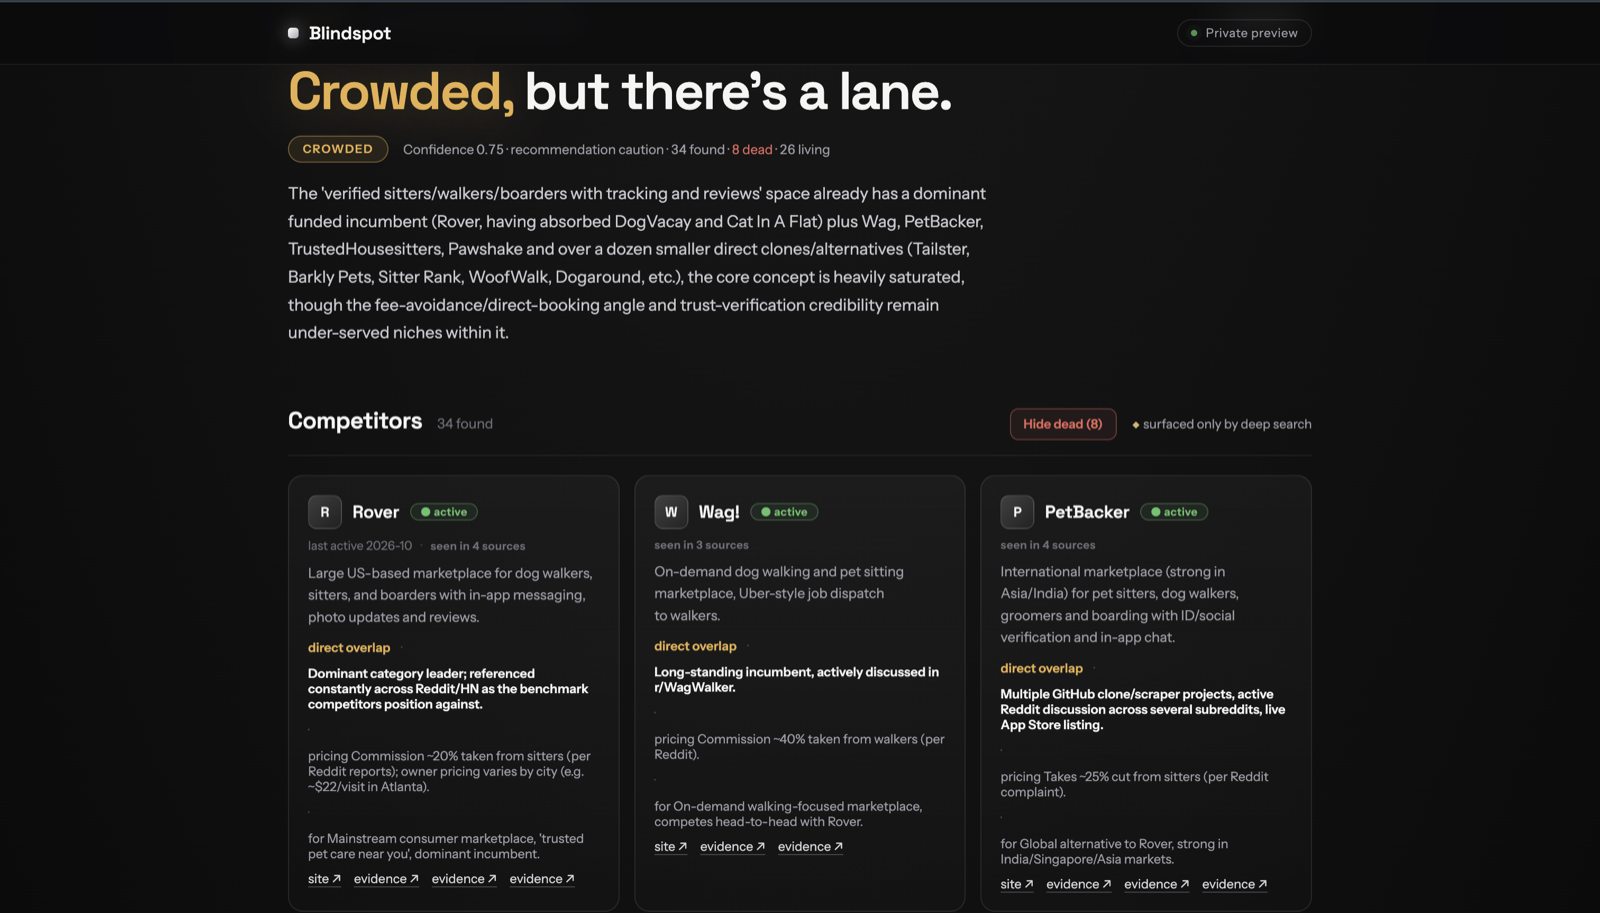
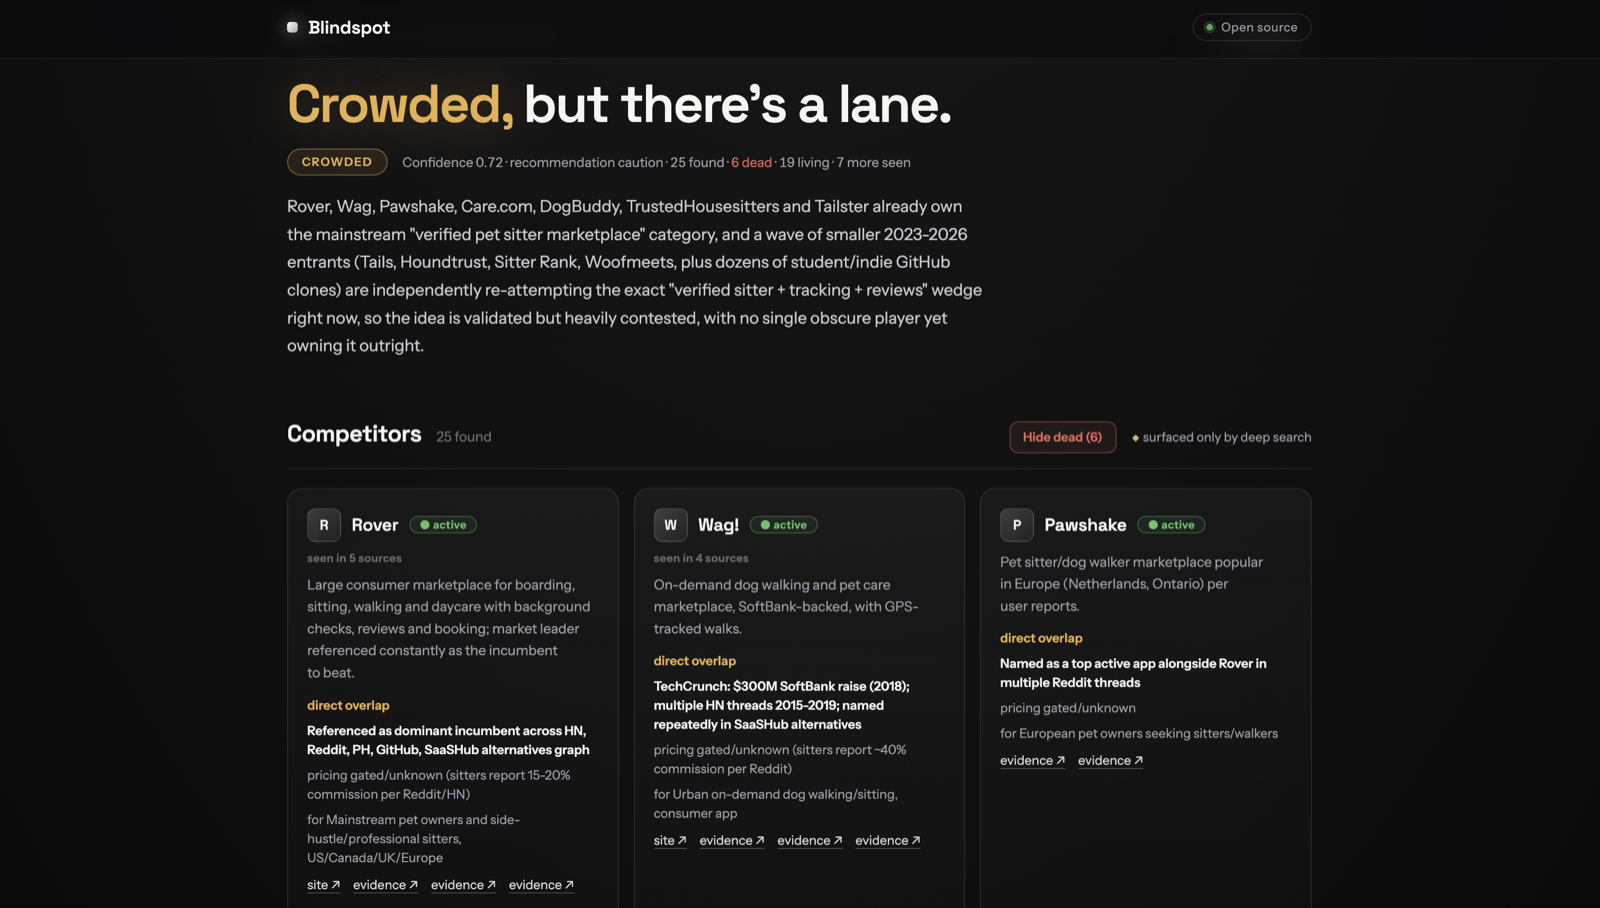
Update README screenshot to the current UI
The old image showed the "Private preview" badge and the orphaned
separators fixed in 5e96cf8.

diff --git a/README.md b/README.md
@@ -2,7 +2,7 @@
 
 **Find the competitors Google can't.** An "is this idea taken?" validator that surfaces the small, new, obscure players authority-ranked search structurally misses.
 
-![Blindspot report for a pet-sitting marketplace idea: verdict "Crowded, but there's a lane", 34 competitors found, 8 dead, with competitor cards for Rover, Wag! and PetBacker](docs/screenshot.png)
+![Blindspot report for a pet-sitting marketplace idea: verdict "Crowded, but there's a lane", 25 competitors found, 6 dead, with competitor cards for Rover, Wag! and Pawshake](docs/screenshot.png)
 
 ## What it does
 
